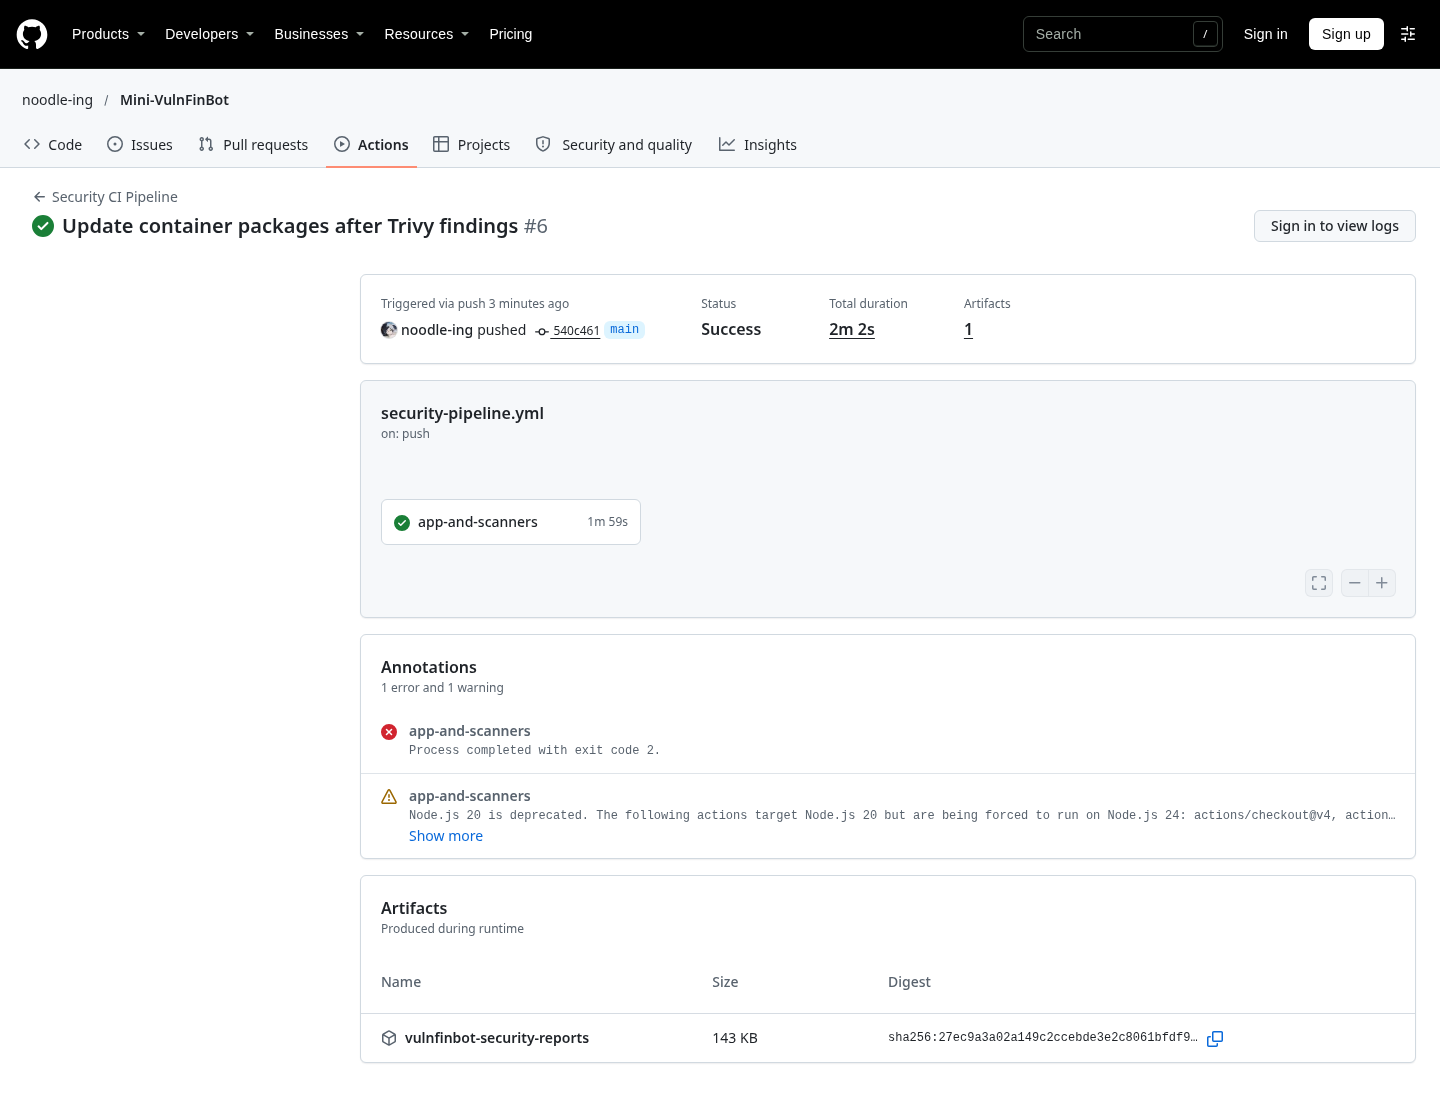
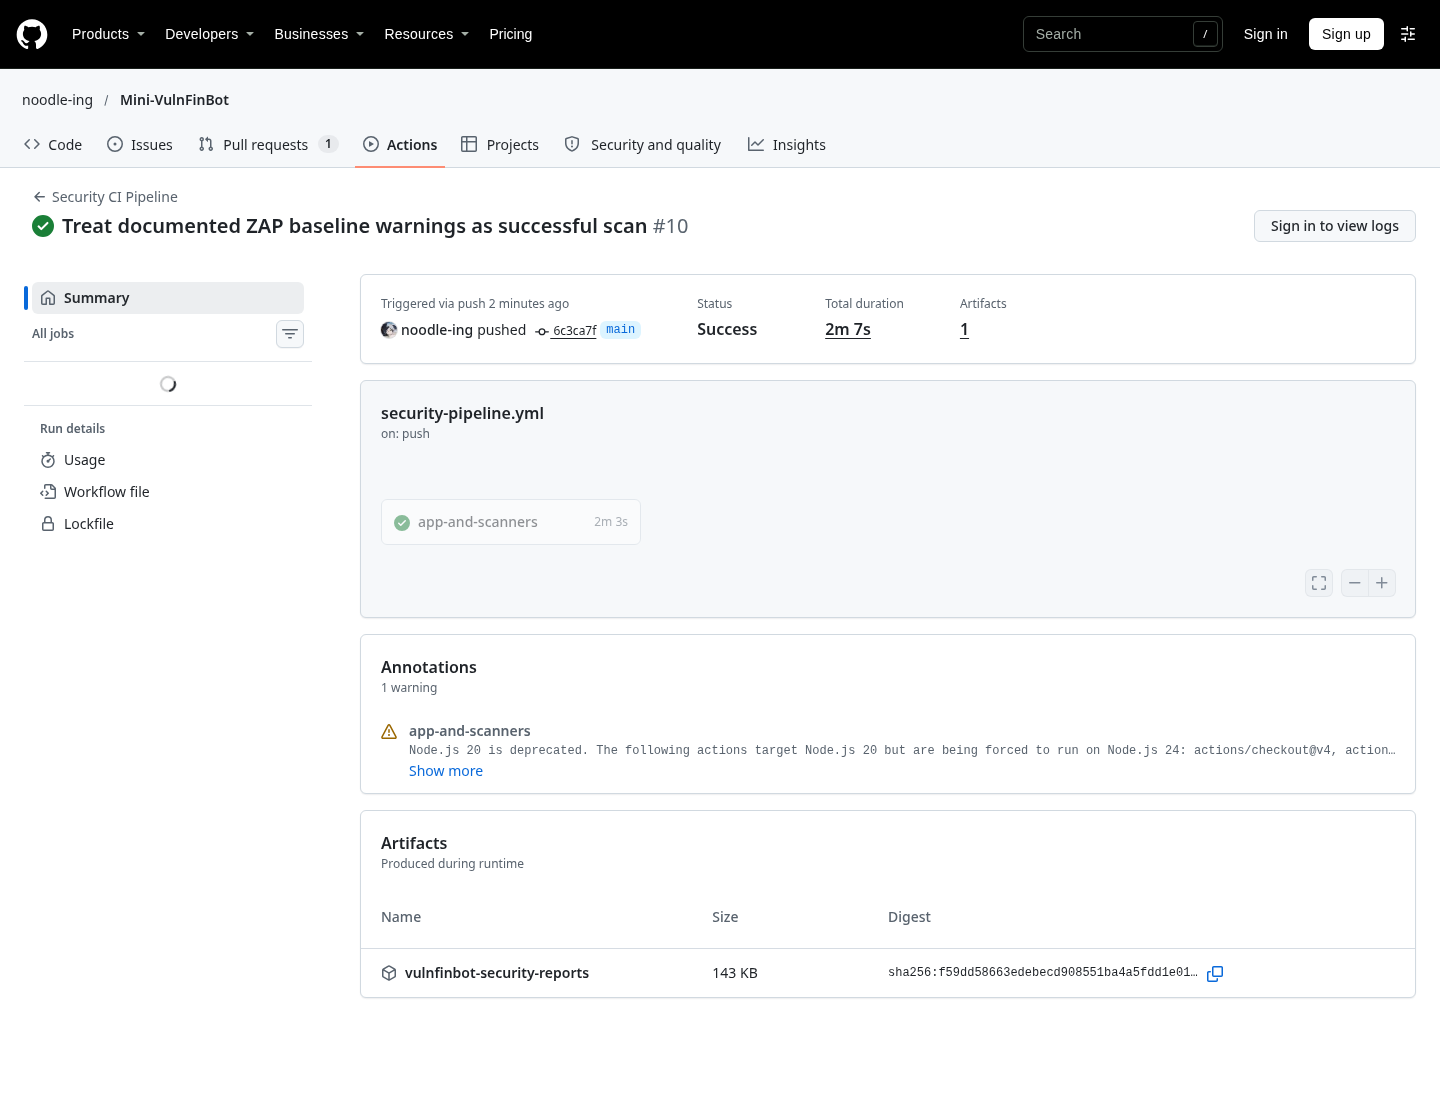
Add final CI and issue screenshots to technical report

diff --git a/docs/technical-report.md b/docs/technical-report.md
@@ -22,7 +22,7 @@ The CI pipeline runs unit and AI boundary tests, source scanners, dependency sca
 3. The isolated `demo/semgrep-remediation` branch contains `reports/semgrep-before.json` (1 finding) and `reports/semgrep-after.json` (0 findings). Commits `8c014e7` and `cc573ed` show the change.
 4. Local scan date: 2026-11-22. Semgrep 1.186.0 reported 1 finding before and 0 after. Record versions from the final CI run too, since vulnerability databases change.
 
-The [GitHub Actions screenshot](screenshots/actions-success.png) shows a completed workflow and uploaded security artifact. The final run URL is recorded below after completion.
+The [GitHub Actions run](https://github.com/noodle-ing/Mini-VulnFinBot/actions/runs/45055553406) completed successfully with the `vulnfinbot-security-reports` artifact. The [workflow screenshot](screenshots/actions-success.png) shows the result, and the [issues screenshot](screenshots/issues-closed.png) shows all 10 tickets closed.
 
 ## Container remediation evidence
 
